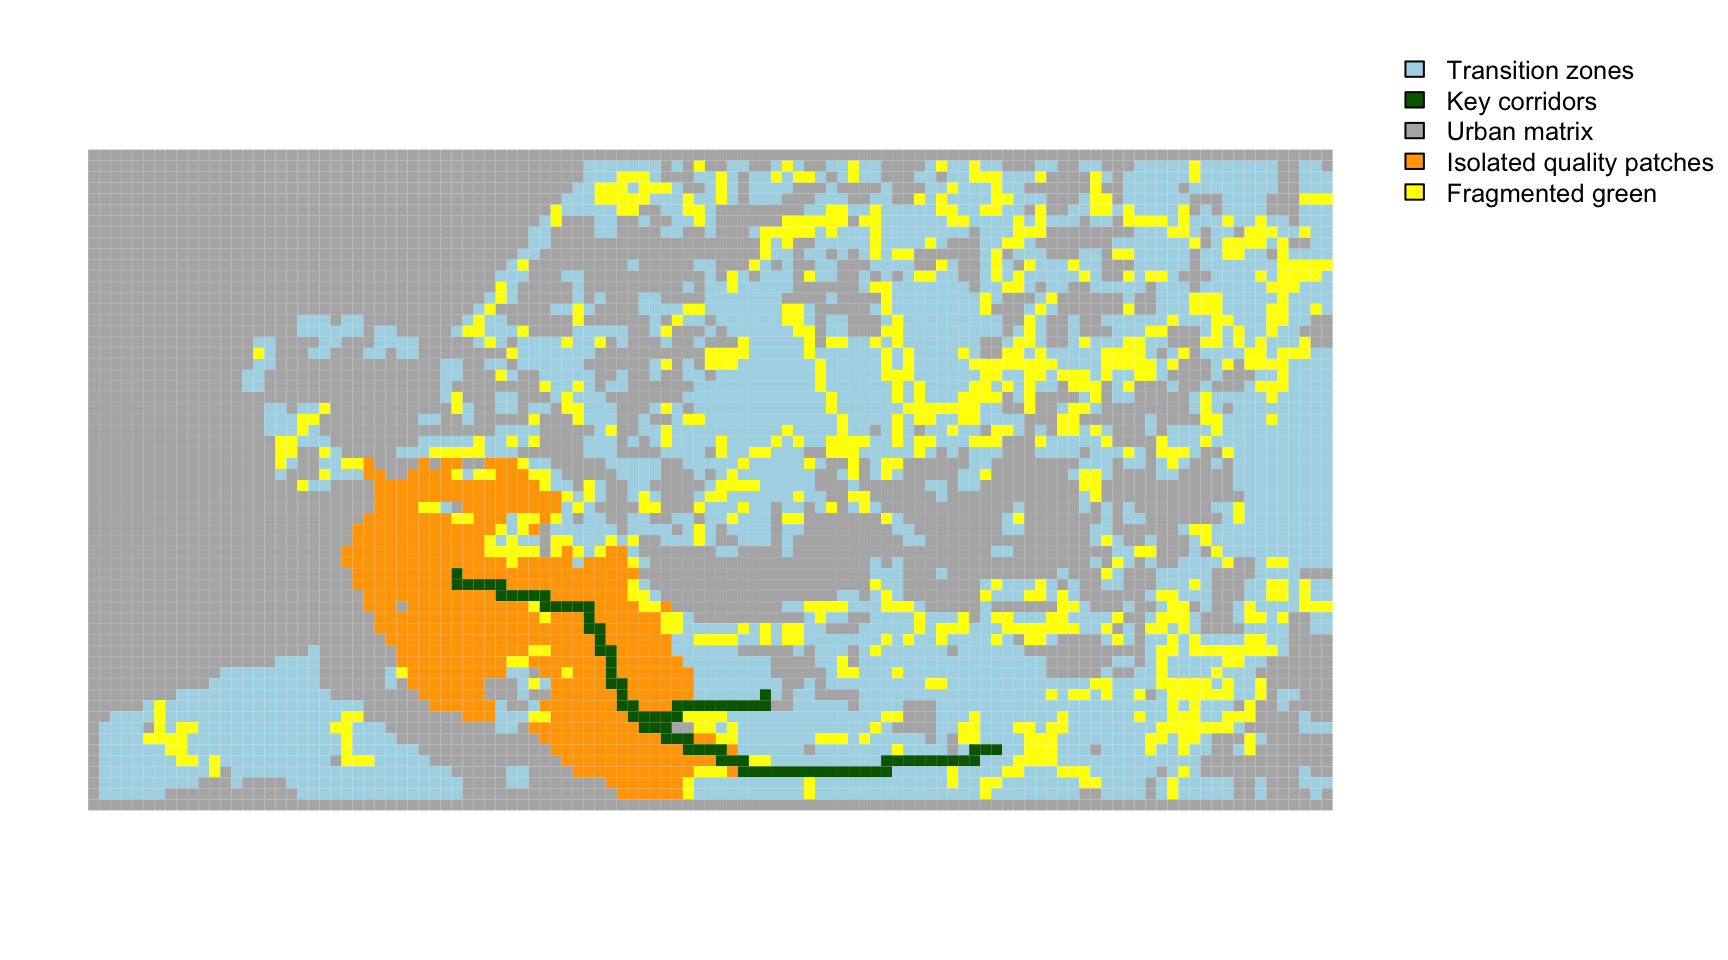
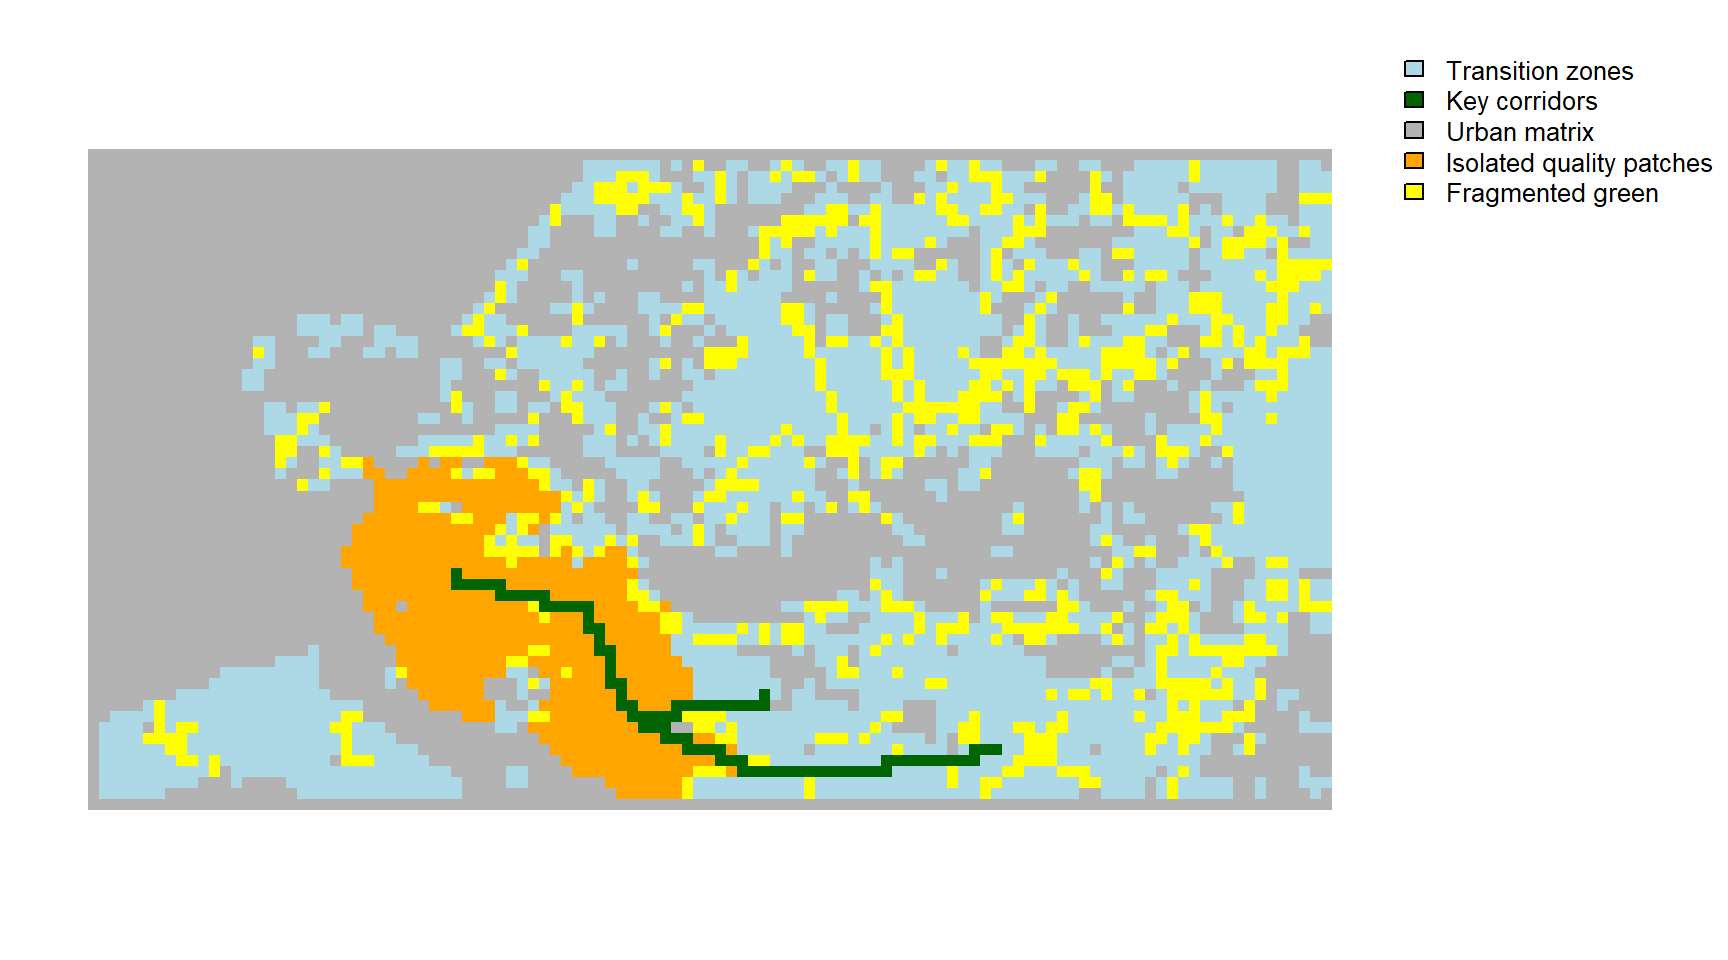
Changed the maps

diff --git a/report.html b/report.html
@@ -2,7 +2,7 @@
 <html xmlns="http://www.w3.org/1999/xhtml" lang="en" xml:lang="en"><head>
 
 <meta charset="utf-8">
-<meta name="generator" content="quarto-1.9.36">
+<meta name="generator" content="quarto-1.9.37">
 
 <meta name="viewport" content="width=device-width, initial-scale=1.0, user-scalable=yes">
 
@@ -72,10 +72,10 @@ pre > code.sourceCode > span > a:first-child::before { text-decoration: underlin
 <script src="report_files/libs/quarto-html/tippy.umd.min.js"></script>
 <script src="report_files/libs/quarto-html/anchor.min.js"></script>
 <link href="report_files/libs/quarto-html/tippy.css" rel="stylesheet">
-<link href="report_files/libs/quarto-html/quarto-syntax-highlighting-845c23b38eaddc0f92fda52bfe77a8c8.css" rel="stylesheet" id="quarto-text-highlighting-styles">
+<link href="report_files/libs/quarto-html/quarto-syntax-highlighting-7f8f88aac4f3542376d5c11b86a4c14d.css" rel="stylesheet" id="quarto-text-highlighting-styles">
 <script src="report_files/libs/bootstrap/bootstrap.min.js"></script>
 <link href="report_files/libs/bootstrap/bootstrap-icons.css" rel="stylesheet">
-<link href="report_files/libs/bootstrap/bootstrap-138a6193a3bd40baf1e627da441a4734.min.css" rel="stylesheet" append-hash="true" id="quarto-bootstrap" data-mode="light">
+<link href="report_files/libs/bootstrap/bootstrap-efbb37e9afcc02144ebbc7afd12a776f.min.css" rel="stylesheet" append-hash="true" id="quarto-bootstrap" data-mode="light">
 
 
 </head>
@@ -1047,6 +1047,9 @@ Figure&nbsp;17: Ecological resistance analysis layers zoom in 2.
 </section>
 <section id="conclusion-maps-1" class="level5">
 <h5 class="anchored" data-anchor-id="conclusion-maps-1">Conclusion Maps</h5>
+<p>After combining all layers, the barriers facing each “potential” link become clear. As shown in the bottom map of each figure, some “potential” links already follow an existing green corridor or element; from this stage onward, we therefore focus only on the missing links.</p>
+<p>In zoom-in 1 (Tianhe District), the overall ecological resistance is predominantly very low to low, reflecting the large and continuous patches of subtropical forest visible in dark green across much of the area. The dominant barriers where the highest-importance links cross are broader zones of moderate to high resistance representing urban fabric — buildings, paved surfaces, and limited vegetation interrupting the otherwise continuous forest matrix. Within these urban zones, red lines indicate that roads add an additional layer of very high resistance. The barrier to connectivity is therefore a combination of urban built fabric and the roads embedded within it. When developing NbS in the next step, this mixed urban-natural character must be taken into account.</p>
+<p>Zoom-in 2 (Haizhu District) presents a more fragmented picture, where existing parks with very low resistance are separated by three distinct barrier types clearly visible on the map: a large river channel running diagonally through the area, roads appearing as red lines of very high resistance cutting across the link trajectories, and broader zones of moderate to high resistance representing the dense urban fabric between the parks. The barriers here are correspondingly more varied, and NbS will need to address all three simultaneously.</p>
 <div id="fig-resistance-first" class="quarto-float quarto-figure quarto-figure-center anchored">
 <figure class="quarto-float quarto-float-fig figure">
 <div aria-describedby="fig-resistance-first-caption-0ceaefa1-69ba-4598-a22c-09a6ac19f8ca">
